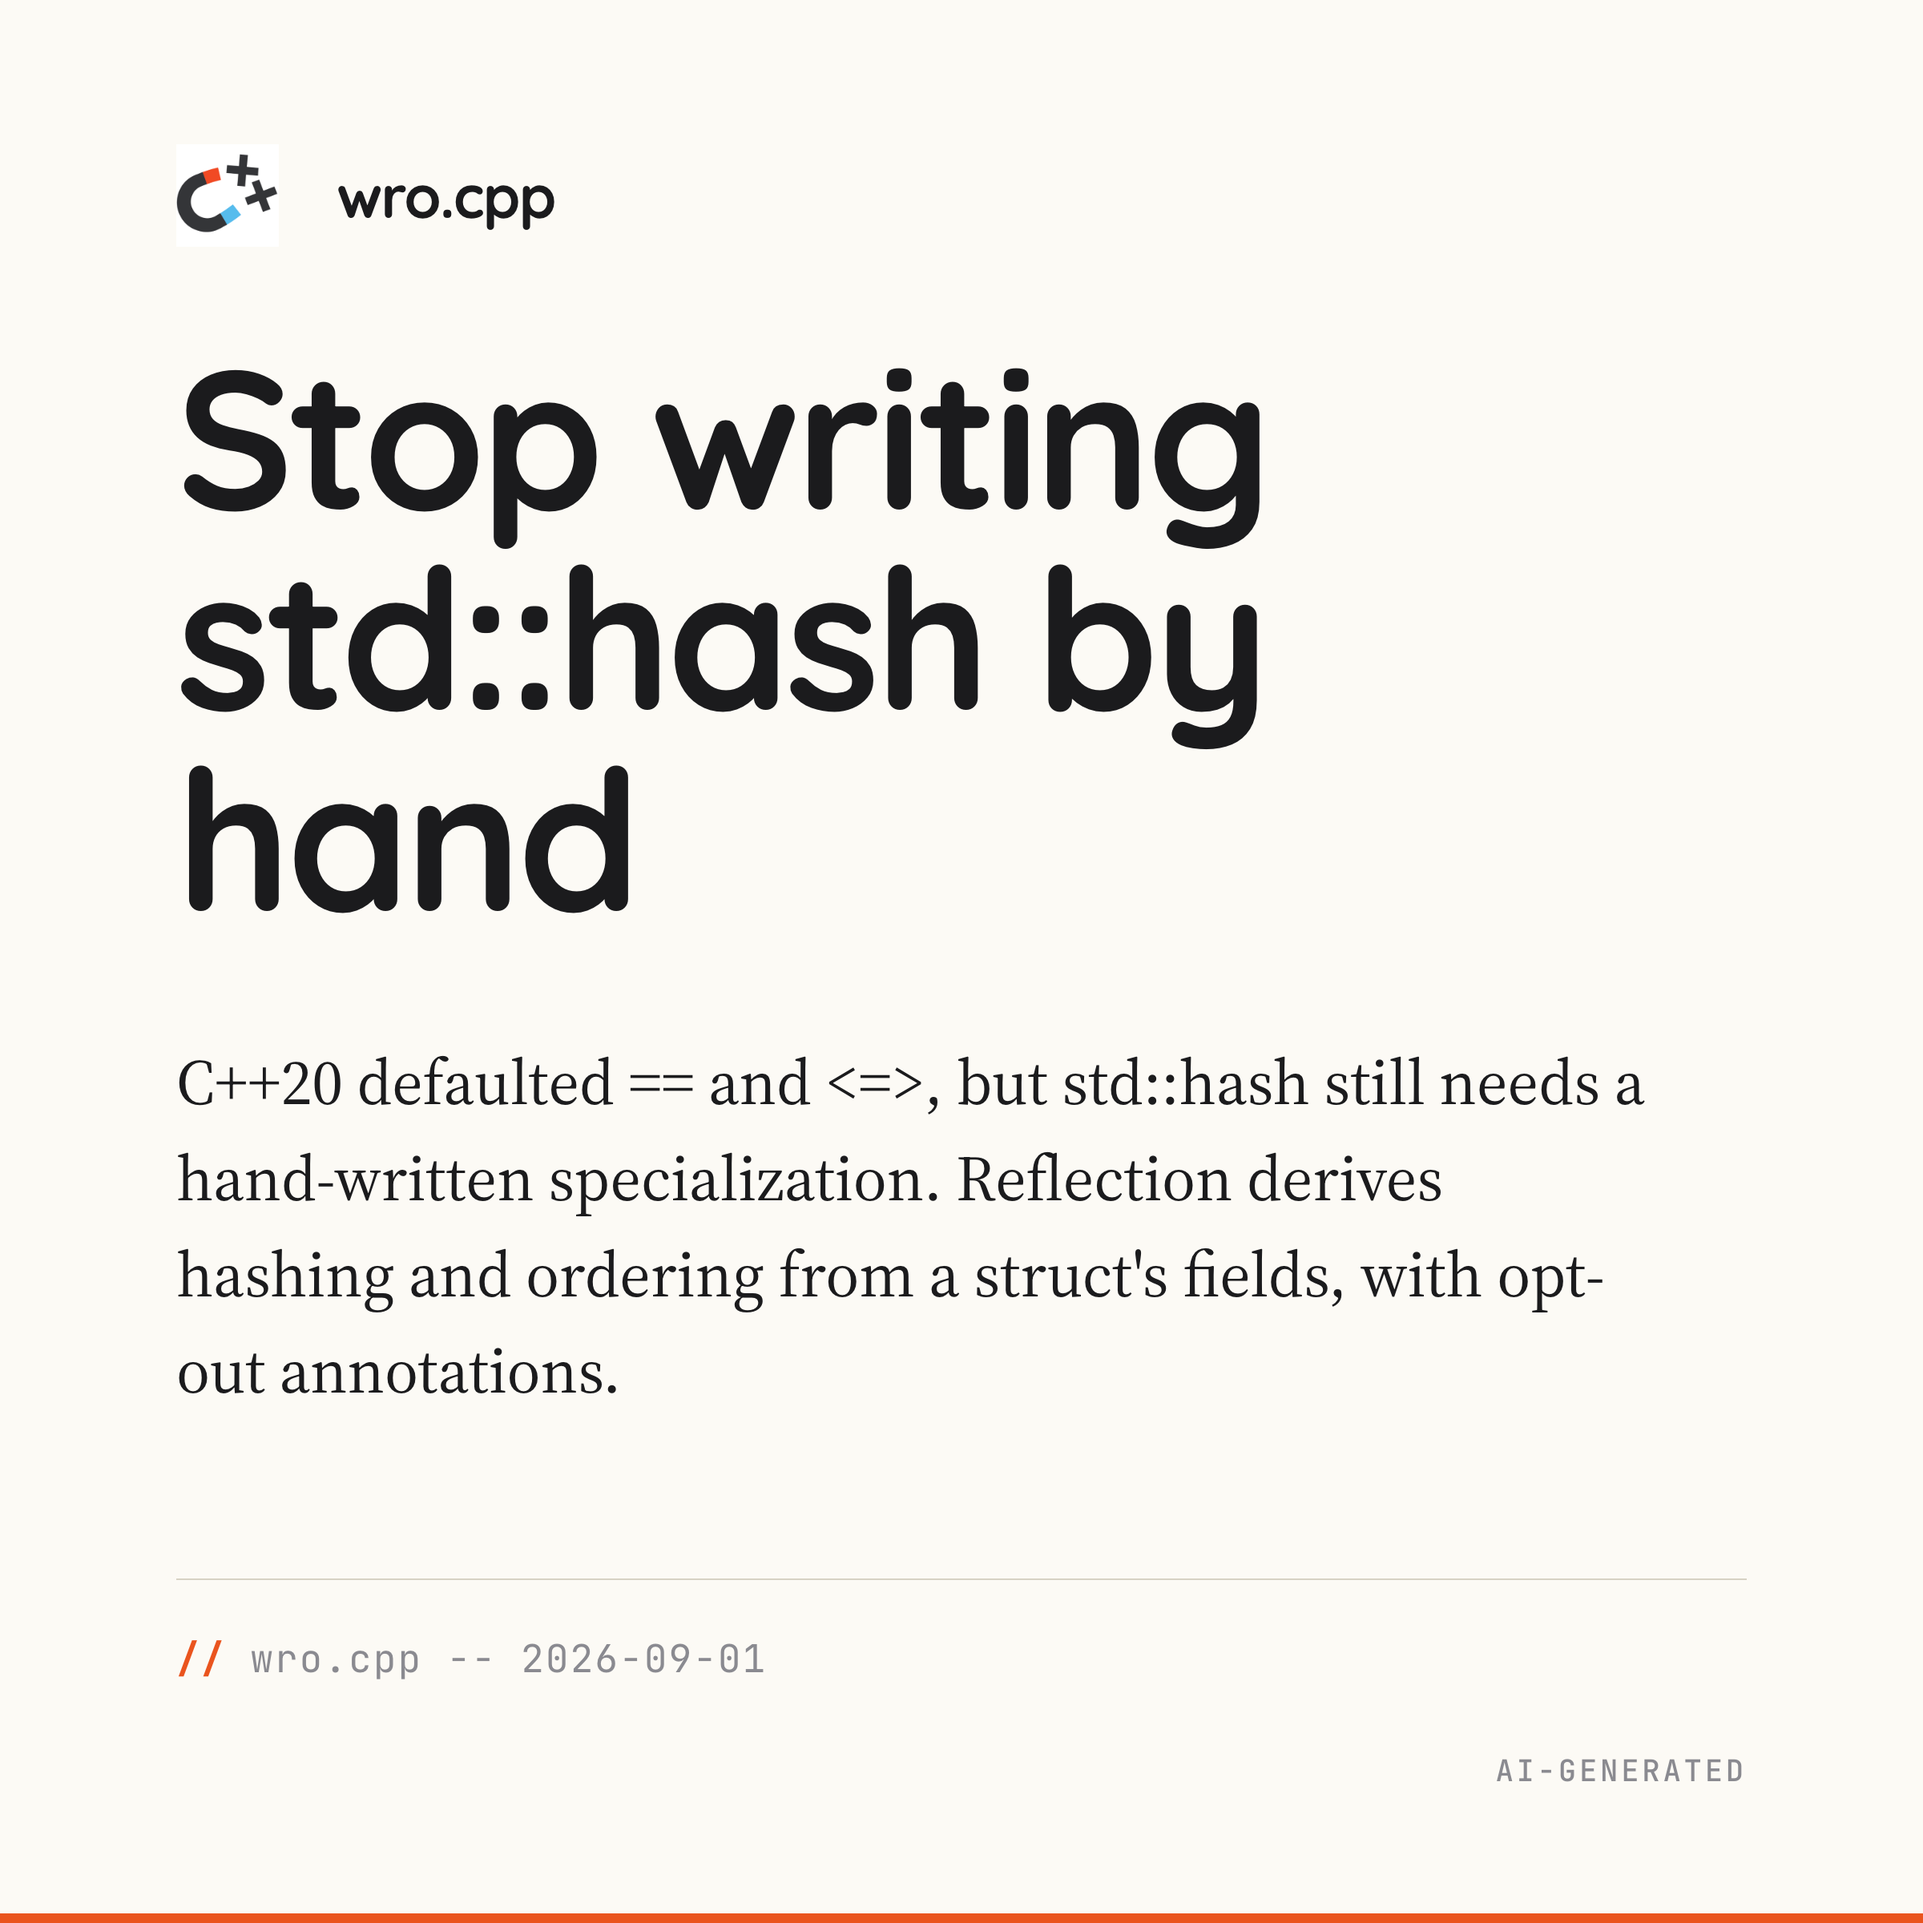
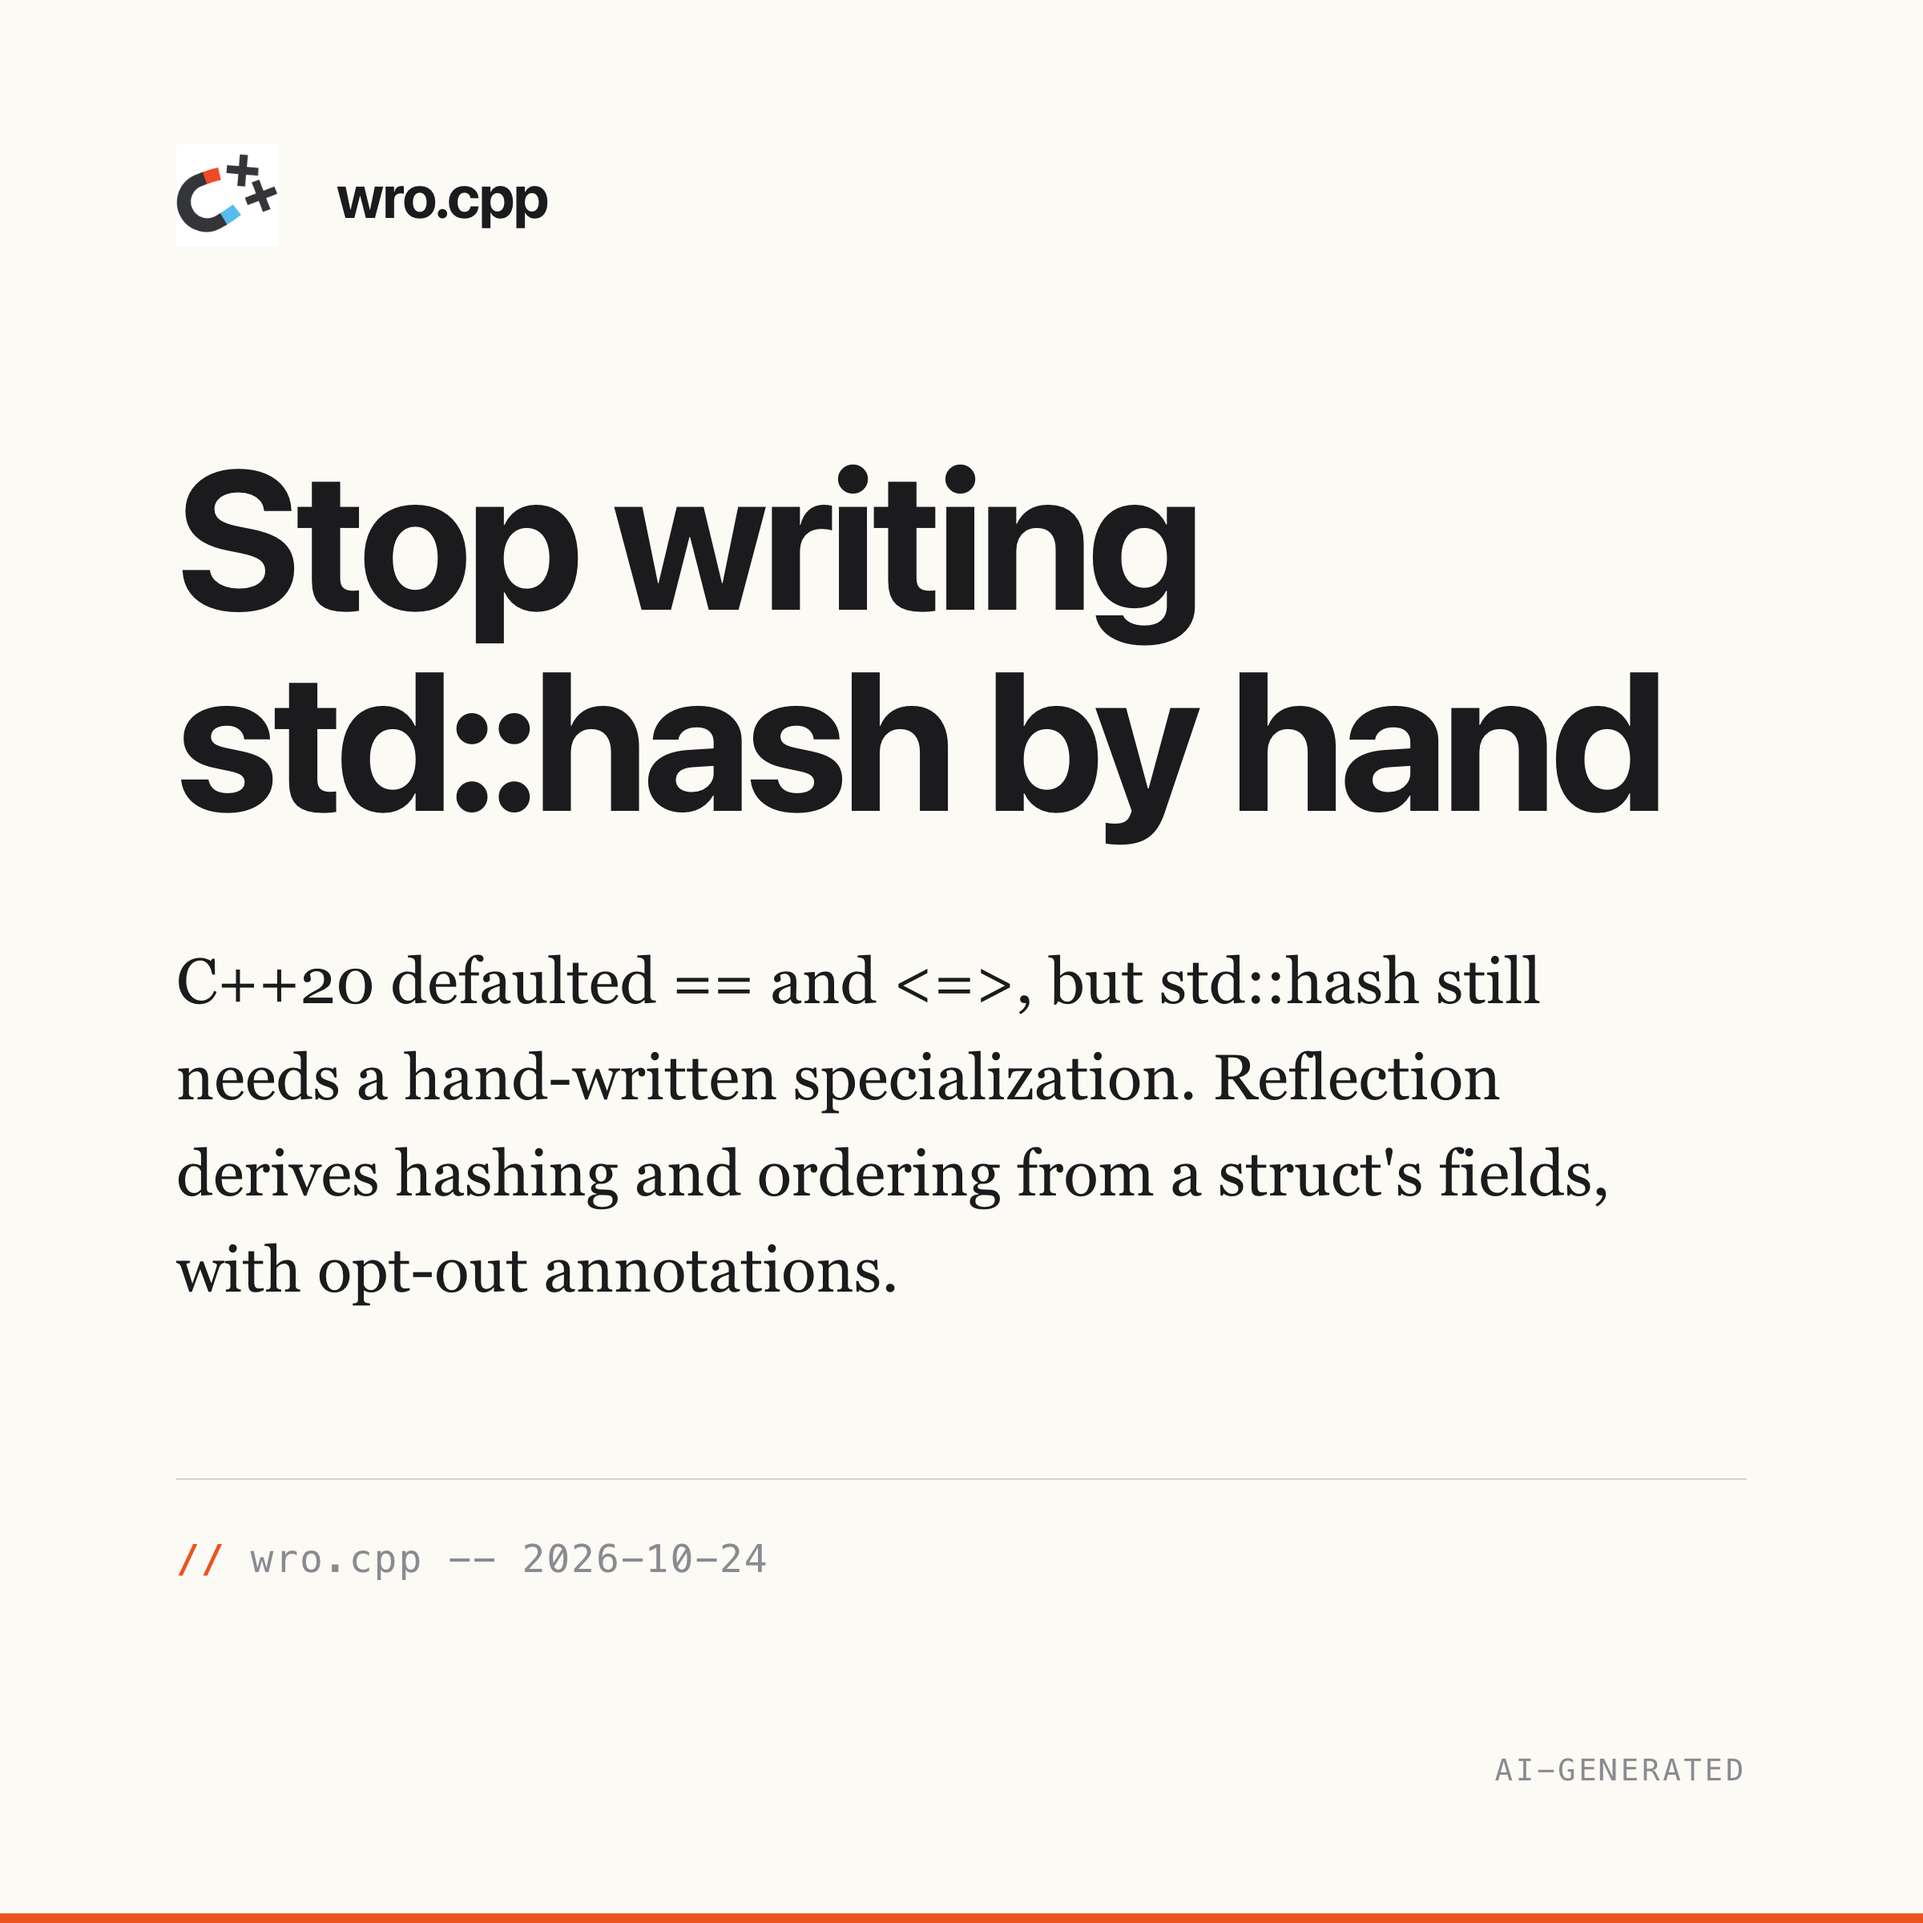
chore(schedule): move derive-eq-hash to 2026-10-24
Reserves 2026-09-20 for post-conference CppCon 2026 coverage. The
schedule was full daily through 2026-10-22, so without holding a date
the earliest possible recap was five weeks after the event.

diff --git a/social/facebook/derive-eq-hash/index.html b/social/facebook/derive-eq-hash/index.html
@@ -23,6 +23,6 @@
   </defs>
 </svg>
 
-<section class="card card-insight dark"><div class="grid-bg"></div><div class="glow"></div><div class="insight-content"><h1>Stop writing std::hash by hand</h1><p>C++20 defaulted == and &#x3C;=>, but std::hash still needs a hand-written specialization. Reflection derives hashing and ordering from a struct's fields, with opt-out annotations.</p><div class="insight-citation">wro.cpp -- 2026-09-01</div></div><div class="logo-watermark top-left"><svg viewBox="0 0 512 512" aria-hidden="true"><use href="#scudo-logo"/></svg><span class="logo-wordmark">ScudoAI</span></div><div class="ai-badge">AI-generated</div></section>
+<section class="card card-insight dark"><div class="grid-bg"></div><div class="glow"></div><div class="insight-content"><h1>Stop writing std::hash by hand</h1><p>C++20 defaulted == and &#x3C;=>, but std::hash still needs a hand-written specialization. Reflection derives hashing and ordering from a struct's fields, with opt-out annotations.</p><div class="insight-citation">wro.cpp -- 2026-10-24</div></div><div class="logo-watermark top-left"><svg viewBox="0 0 512 512" aria-hidden="true"><use href="#scudo-logo"/></svg><span class="logo-wordmark">ScudoAI</span></div><div class="ai-badge">AI-generated</div></section>
 </body>
 </html>

diff --git a/social/linkedin/derive-eq-hash/index.html b/social/linkedin/derive-eq-hash/index.html
@@ -23,6 +23,6 @@
   </defs>
 </svg>
 
-<section class="card card-insight dark"><div class="grid-bg"></div><div class="glow"></div><div class="insight-content"><h1>Stop writing std::hash by hand</h1><p>C++20 defaulted == and &#x3C;=>, but std::hash still needs a hand-written specialization. Reflection derives hashing and ordering from a struct's fields, with opt-out annotations.</p><div class="insight-citation">wro.cpp -- 2026-09-01</div></div><div class="logo-watermark top-left"><svg viewBox="0 0 512 512" aria-hidden="true"><use href="#scudo-logo"/></svg><span class="logo-wordmark">ScudoAI</span></div><div class="ai-badge">AI-generated</div></section>
+<section class="card card-insight dark"><div class="grid-bg"></div><div class="glow"></div><div class="insight-content"><h1>Stop writing std::hash by hand</h1><p>C++20 defaulted == and &#x3C;=>, but std::hash still needs a hand-written specialization. Reflection derives hashing and ordering from a struct's fields, with opt-out annotations.</p><div class="insight-citation">wro.cpp -- 2026-10-24</div></div><div class="logo-watermark top-left"><svg viewBox="0 0 512 512" aria-hidden="true"><use href="#scudo-logo"/></svg><span class="logo-wordmark">ScudoAI</span></div><div class="ai-badge">AI-generated</div></section>
 </body>
 </html>

diff --git a/social/facebook/derive-eq-hash/content.md b/social/facebook/derive-eq-hash/content.md
@@ -4,7 +4,7 @@ template: social/linkedin-post
 
 ::::post{type=insight theme=dark logo=top-left}
 
-:::insight{citation="wro.cpp -- 2026-09-20"}
+:::insight{citation="wro.cpp -- 2026-10-24"}
 # Stop writing std::hash by hand
 C++20 defaulted == and <=>, but std::hash still needs a hand-written specialization. Reflection derives hashing and ordering from a struct's fields, with opt-out annotations.
 :::

diff --git a/social/linkedin/derive-eq-hash/content.md b/social/linkedin/derive-eq-hash/content.md
@@ -4,7 +4,7 @@ template: social/linkedin-post
 
 ::::post{type=insight theme=dark logo=top-left}
 
-:::insight{citation="wro.cpp -- 2026-09-20"}
+:::insight{citation="wro.cpp -- 2026-10-24"}
 # Stop writing std::hash by hand
 C++20 defaulted == and <=>, but std::hash still needs a hand-written specialization. Reflection derives hashing and ordering from a struct's fields, with opt-out annotations.
 :::
